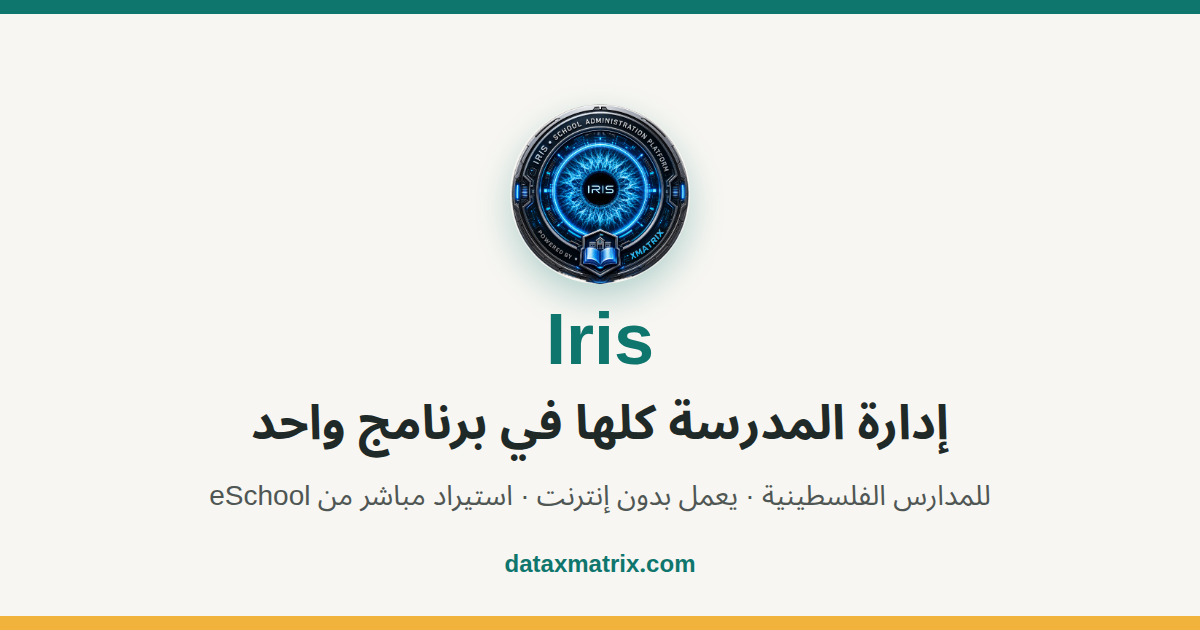
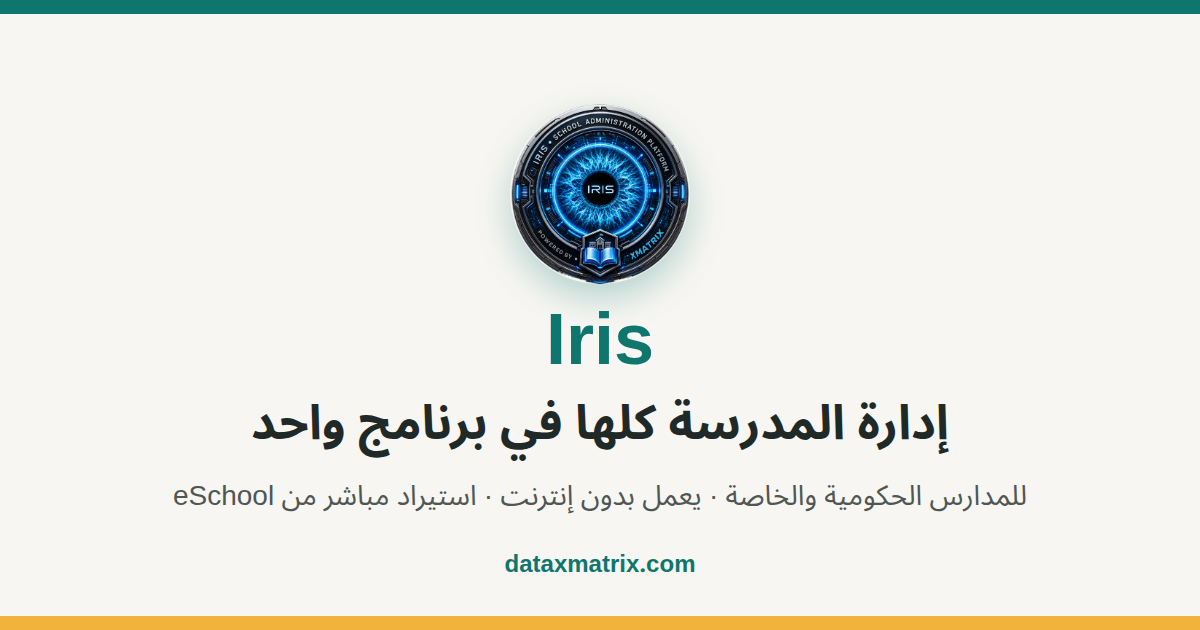
Home: position Iris for government and private schools
Hero opens with «للمدارس الحكومية والخاصة», new «للمدارس الخاصة» section
(5 benefit cards built only from features already on the site) with a
WhatsApp trial CTA prefilled for private schools; meta description and
link-preview card mention private schools.

Changed region(s): [[0.1233, 0.754, 0.8633, 0.8143]]

diff --git a/src/pages/index.html b/src/pages/index.html
@@ -1,8 +1,8 @@
-<!--meta {"title": "Iris", "description": "Iris نظام إدارة مدرسية للمدارس الفلسطينية: الطلاب، الحضور والغياب، الموظفون والبدلاء، المالية، الامتحانات والمراسلات – يعمل بدون إنترنت.", "nav": "home"} -->
+<!--meta {"title": "Iris", "description": "Iris نظام إدارة مدرسية للمدارس الفلسطينية الحكومية والخاصة: الطلاب، الحضور والغياب، الموظفون والبدلاء، المالية، الامتحانات والمراسلات – يعمل بدون إنترنت.", "nav": "home"} -->
 <div class="hero"><div class="wrap">
  <div>
   <h1>إدارة المدرسة كلها<br><span>في برنامج واحد</span></h1>
-  <p>Iris نظام إدارة مدرسية للمدارس الفلسطينية الحكومية والخاصة: الطلاب، الحضور والغياب، الموظفون والبدلاء، المالية، الامتحانات والمراسلات – يعمل على جهاز المدرسة بدون إنترنت، وبياناتك تبقى عندك.</p>
+  <p>للمدارس الحكومية والخاصة في فلسطين. Iris ينظّم الطلاب، الحضور والغياب، الموظفون والبدلاء، المالية، الامتحانات والمراسلات – يعمل على جهاز المدرسة بدون إنترنت، وبياناتك تبقى عندك.</p>
   <div class="cta"><a class="btn bp" href="/download/">تنزيل النسخة الأخيرة</a><a class="btn bo" href="{{WA_TRIAL_URL}}" rel="noopener">اطلب تجربة مجانية</a></div>
   <div class="tags"><span>استيراد مباشر من eSchool</span><span>عربي بالكامل</span><span>يعمل بدون إنترنت</span><span>نسخ احتياطي تلقائي</span></div>
  </div>
@@ -34,7 +34,20 @@
  </div>
 </div></section>
 
-<section><div class="wrap">
+<section id="private"><div class="wrap">
+ <h2>للمدارس الخاصة</h2>
+ <p class="sub">إدارة منظّمة ووقت أقل في الأعمال الورقية، وبيانات مدرستك تبقى ملكك.</p>
+ <div class="grid">
+  <div class="card"><div class="ic">⏱</div><h3>وقت أقل في الإدارة</h3><p>الغياب اليومي لكل شعبة، وتوزيع الحصص البديلة بعدالة، وسجلات الطلاب وأرقام أولياء الأمور في مكان واحد.</p></div>
+  <div class="card"><div class="ic">₪</div><h3>مالية منظّمة</h3><p>الإيرادات والمصروفات، ثمن الكتب، السندات والتقارير المالية.</p></div>
+  <div class="card"><div class="ic">⎙</div><h3>كشوف وتقارير مطبوعة</h3><p>كشف الغياب اليومي، كشف البدلاء، والتقارير المالية جاهزة للطباعة للإدارة.</p></div>
+  <div class="card"><div class="ic">⚡</div><h3>يعمل بدون إنترنت</h3><p>يعمل على جهاز المدرسة، والتفعيل مرة واحدة دون اتصال بالإنترنت.</p></div>
+  <div class="card"><div class="ic">🔒</div><h3>بياناتك ملك مدرستك</h3><p>تُحفظ على جهاز المدرسة فقط، مع نسخ احتياطي تلقائي على وحدة USB.</p></div>
+ </div>
+ <div class="cta more"><a class="btn bp" href="{{WA_PRIVATE_TRIAL_URL}}" rel="noopener">اطلب تجربة مجانية لمدرستك الخاصة</a></div>
+</div></section>
+
+<section class="alt"><div class="wrap">
  <h2>كيف تبدأ؟</h2>
  <p class="sub">أربع خطوات ويصبح البرنامج جاهزاً في مدرستك.</p>
  <div class="steps">
@@ -45,7 +58,7 @@
  </div>
 </div></section>
 
-<section class="alt"><div class="wrap">
+<section><div class="wrap">
  <h2>تحتاج مساعدة؟</h2>
  <p class="sub">نرد على واتساب خلال اليوم، ونساعدك في التثبيت والتفعيل واستيراد البيانات.</p>
  <div class="cta"><a class="btn bp" href="{{WA_URL}}" rel="noopener">راسلنا على واتساب</a><a class="btn bo" href="/guide/">دليل الاستخدام</a></div>

diff --git a/design/og-image.html b/design/og-image.html
@@ -17,6 +17,6 @@ body::after{content:"";position:absolute;inset:auto 0 0 0;height:14px;background
 <img class="logo" src="iris-logo-986.png" alt="">
 <div class="name">Iris</div>
 <div class="t">إدارة المدرسة كلها في برنامج واحد</div>
-<div class="s">للمدارس الفلسطينية · يعمل بدون إنترنت · استيراد مباشر من eSchool</div>
+<div class="s">للمدارس الحكومية والخاصة · يعمل بدون إنترنت · استيراد مباشر من eSchool</div>
 <div class="d">dataxmatrix.com</div>
 </body></html>
